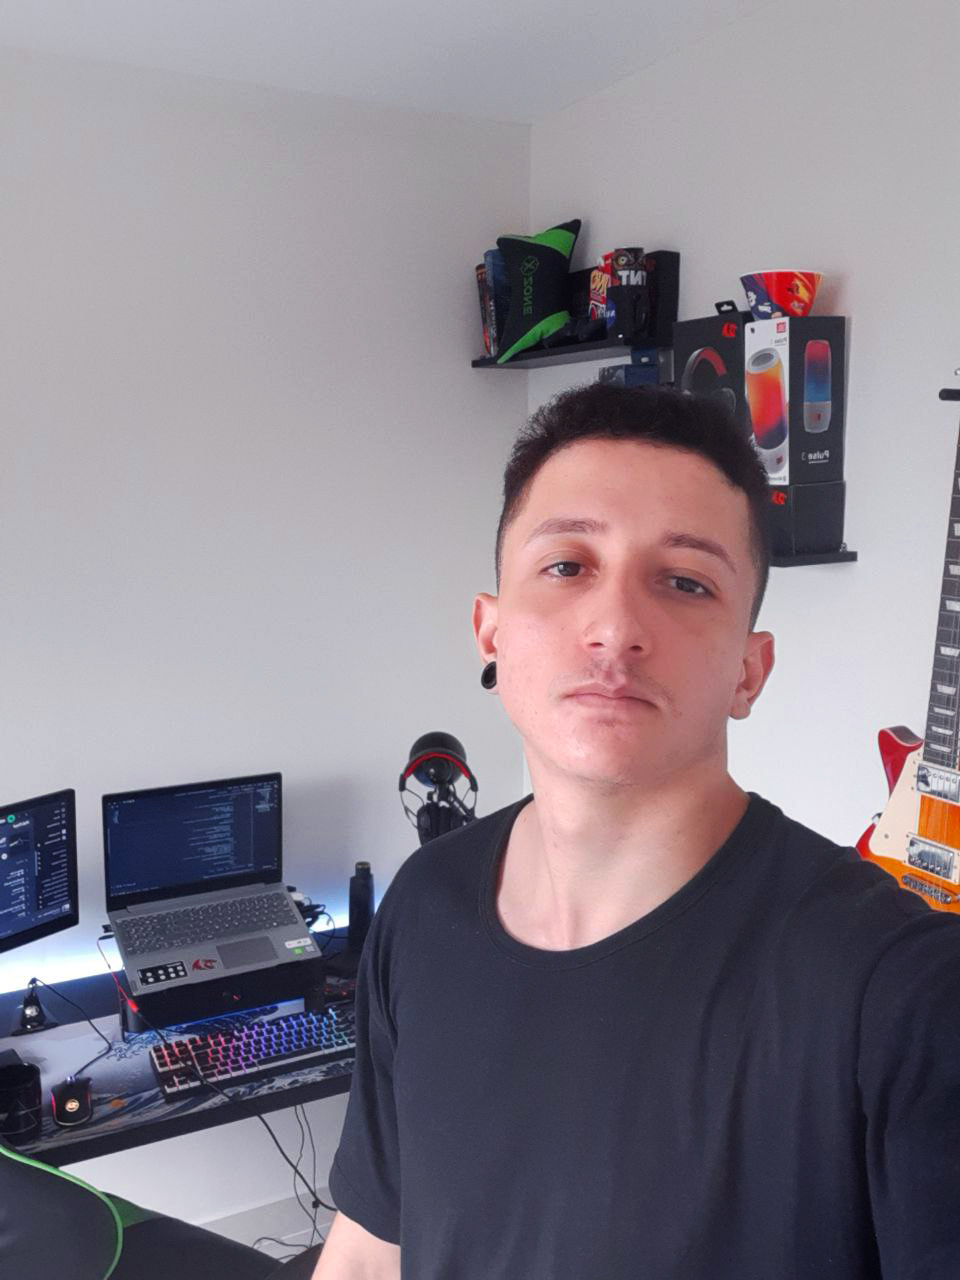
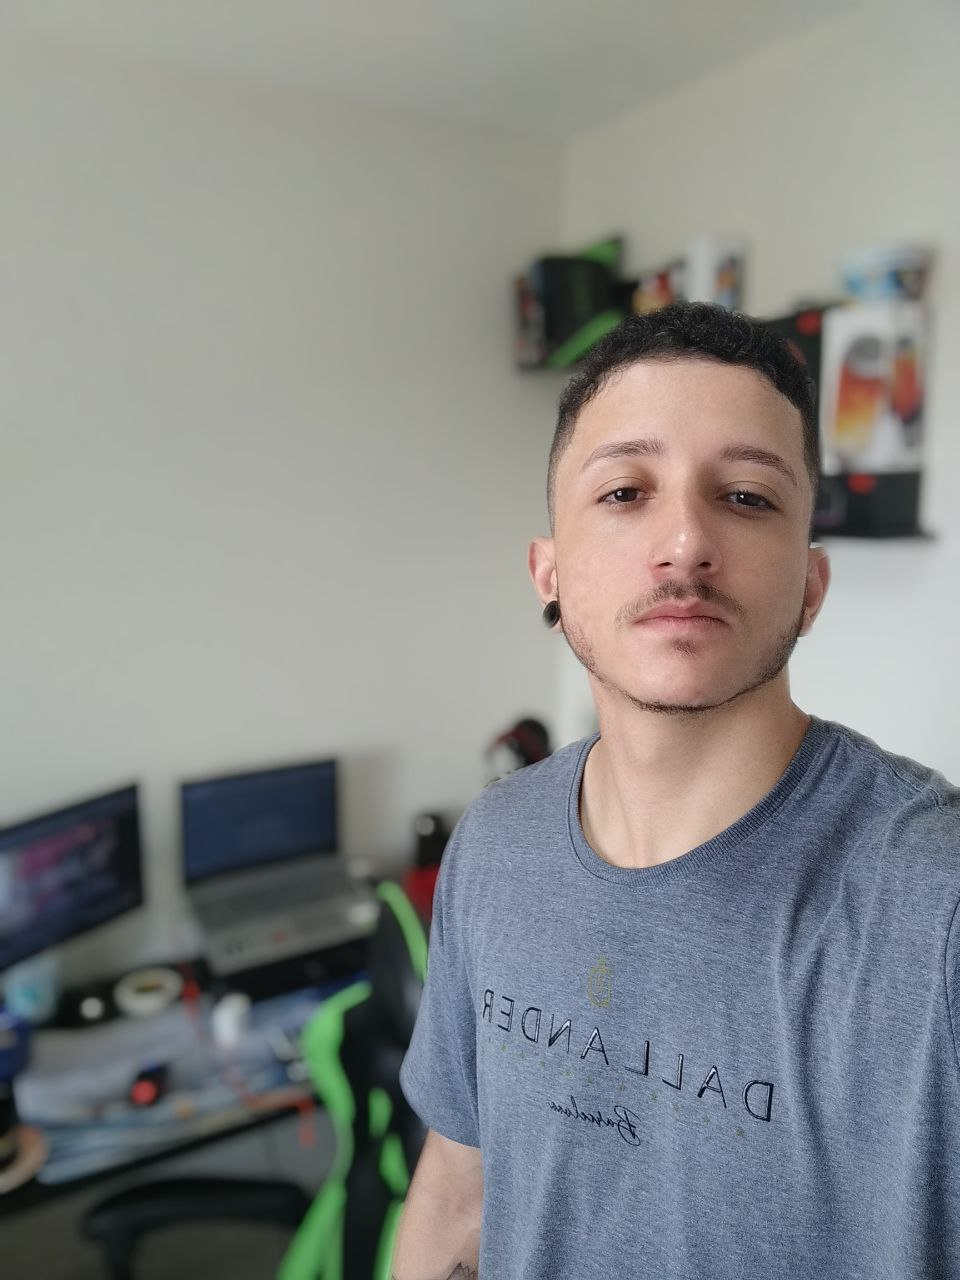
atualização de descrição e foto

diff --git a/src/App.js b/src/App.js
@@ -1,4 +1,4 @@
-import foto from './Images/red.png';
+import foto from './Images/eu.jpg';
 // import logo from './Images/logo.png'
 import titulo from './Images/Jagal.png'
 import GitHub from './Images/GitHub.png'
@@ -73,7 +73,7 @@ function App() {
           </div>
           <div className="About-group-desc">
               <h3>Quem sou eu?</h3>
-              <p> &nbsp; Lorem ipsum dolor sit amet, consectetur adipiscing elit, sed do eiusmod tempor incididunt ut labore et dolore magna aliqua. Ut enim ad minim veniam, quis nostrud exercitation ullamco.
+              <p> &nbsp; Sou Desenvolvedor Front-End, atualmente estou cursando o quinto período de Ciência da Computação no Centro Universitário de João Pessoa (UNIPÊ).
               </p> <br/>
               <h3>Tecnologias:</h3>
               <br/>
@@ -130,15 +130,15 @@ function App() {
               <br/>
               <br/>
               <p>
-              Lorem ipsum dolor sit amet, consectetur adipiscing elit, 
+              jacksongaldinofnx@gmail.com
               </p>
               <br/>
               <p>
-              sed do eiusmod tempor incididunt ut labore et dolore magna aliqua. 
+              +55 (83) 99999-9999 
               </p>
               <br/>
               <p>
-              Ut enim ad minim veniam, quis nostrud exercitation ullamco laboris nisi ut aliquip ex ea commodo consequat.
+              Discord: FNX_#9803
               </p>
       </div>
     </div>

diff --git a/src/App.css b/src/App.css
@@ -102,10 +102,13 @@ body::-webkit-scrollbar-thumb {
   
 }
 .About-foto {
-  width: 40%;
+  display:inline-block;
+  width: 200px;
+  height: 200px;
+  overflow: hidden;
   object-fit: cover;
   border-radius: 50%;
-  box-shadow:         0px 5px 7px #00000070;
+  box-shadow: 0px 5px 7px #00000070;
 }
 .About-icone {
   padding: 0.3cm;
@@ -162,17 +165,16 @@ body::-webkit-scrollbar-thumb {
 
 .botao-visitar {
   font-family: 'Comfortaa';
-  padding-top: 0.4cm;
   background-color: 
-  #0074d3;
+  #5a5a5a;
   opacity: 0.8;
   position: absolute;
   top: 70%;
-  left: 20%;
-  height: 1.2cm;
-  width: 60%;
+  left: 25%;
+  width: 50%;
   color: white;
-  border-radius: 10px;
+  border-radius: 1px;
+  box-shadow: 1px 3px 7px #ffffff;
 }
 .Project-block1 {
   background: url('./Images/cafe.jpg');
